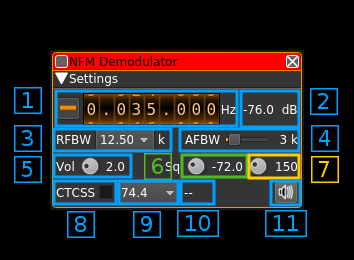
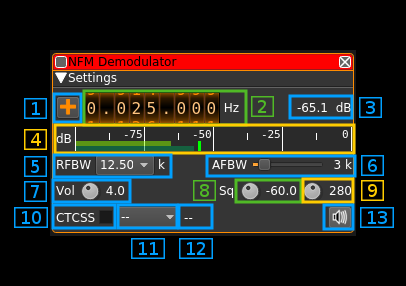
Documentation on AM, NFM and SSB demodulator plugins

diff --git a/plugins/channelrx/demodnfm/readme.md b/plugins/channelrx/demodnfm/readme.md
@@ -6,48 +6,58 @@ This plugin can be used to listen to a narrowband FM modulated signal. By "narro
 
 <h2>Interface</h2>
 
-![NFM Demodulator plugin GUI](/doc/img/NFMdemod_plugin.png)
+![NFM Demodulator plugin GUI](../../../doc/img/NFMdemod_plugin.png)
 
-<h3>1: Frequency shift from center frequency of reception</h3>
+<h3>1: Frequency shift from center frequency of reception direction</h3>
 
-Use the wheels to adjust the frequency shift in Hz from the center frequency of reception. Use the "+/-" button on the left side to toggle between positive and negative shift.
+The "+/-" button on the left side toggles between positive and negative shift.
 
-<h3>2: Channel power</h3>
+<h3>2: Frequency shift from center frequency of reception value</h3>
 
-Total power in dB relative to a +/- 1.0 amplitude signal received in the pass band.
+Use the wheels to adjust the frequency shift in Hz from the center frequency of reception. Left click on a digit sets the cursor position at this digit. Right click on a digit sets all digits on the right to zero. This effectively floors at the digit position.
 
-<h3>3: RF bandwidth</h3>
+<h3>3: Channel power</h3>
+
+Average total power in dB relative to a +/- 1.0 amplitude signal received in the pass band.
+
+<h3>4: Level meter in dB</h3>
+
+  - top bar (green): average value
+  - bottom bar (blue green): instantaneous peak value
+  - tip vertical bar (bright green): peak hold value
+
+<h3>5: RF bandwidth</h3>
 
 This is the bandwidth in kHz of the channel signal before demodulation. It can be set in steps as 5, 6.25, 8.33, 10, 12.5, 15, 20, 25 and 40 kHz.
 
-<h3>4: AF bandwidth</h3>
+<h3>6: AF bandwidth</h3>
 
 This is the bandwidth of the audio signal in kHz (i.e. after demodulation). It can be set in continuous kHz steps from 1 to 20 kHz.
 
-<h3>5: Volume</h3>
+<h3>7: Volume</h3>
 
 This is the volume of the audio signal from 0.0 (mute) to 10.0 (maximum). It can be varied continuously in 0.1 steps using the dial button.
 
-<h3>6: Squelch threshold</h3>
+<h3>8: Squelch threshold</h3>
 
-This is the squelch threshold in dB. The total power received in the signal bandwidth before demodulation is compared to this value and the squelch input is open above this value. It can be varied continuously in 0.1 dB steps from 0.0 to -100.0 dB using the dial button.
+This is the squelch threshold in dB. The average total power received in the signal bandwidth before demodulation is compared to this value and the squelch input is open above this value. It can be varied continuously in 0.1 dB steps from 0.0 to -100.0 dB using the dial button.
 
-<h3>7: Squelch gate</h3>
+<h3>9: Squelch gate</h3>
 
 This is the squelch gate in milliseconds. The squelch input must be open for this amount of time before the squelch actually opens. This prevents the opening of the squelch by parasitic transients. It can be varied continuously in 10ms steps from 10 to 500ms using the dial button.
 
-<h3>8: CTCSS on/off</h3>
+<h3>10: CTCSS on/off</h3>
 
 Use the checkbox to toggle CTCSS activation. When activated it will look for a tone squelch in the demodulated signal and display its frequency (see 10). 
 
-<h3>9: CTCSS tone</h3>
+<h3>11: CTCSS tone</h3>
 
 This is the tone squelch in Hz. It can be selected using the toolbox among the usual CTCSS values and `--` for none. When a value is given and the CTCSS is activated the squelch will open only for signals with this tone squelch.
 
-<h3>10: CTCSS tone value</h3>
+<h3>12: CTCSS tone value</h3>
 
 This is the value of the tone squelch received when the CTCSS is activated. It displays `--` if the CTCSS system is de-activated.
 
-<h3>11: Audio mute</h3>
+<h3>13: Audio mute</h3>
 
 Use this button to toggle audio mute for this channel. The button will light up in green if the squelch is open. This helps identifying which channels are active in a multi-channel configuration.

diff --git a/plugins/channelrx/demodssb/readme.md b/plugins/channelrx/demodssb/readme.md
@@ -1,0 +1,64 @@
+<h1>SSB/DSB demodulator plugin</h1>
+
+<h2>Introduction</h2>
+
+This plugin can be used to listen to a single sideband or double sidebands modulated signals. 
+
+<h2>Interface</h2>
+
+![SSB Demodulator plugin GUI](../../../doc/img/SSBDemod_plugin.png)
+
+<h3>1: Frequency shift from center frequency of reception direction</h3>
+
+The "+/-" button on the left side toggles between positive and negative shift.
+
+<h3>2: Frequency shift from center frequency of reception value</h3>
+
+Use the wheels to adjust the frequency shift in Hz from the center frequency of reception. Left click on a digit sets the cursor position at this digit. Right click on a digit sets all digits on the right to zero. This effectively floors at the digit position.
+
+<h3>3: Channel power</h3>
+
+Average total power in dB relative to a +/- 1.0 amplitude signal received in the pass band.
+
+<h3>4: Monaural/binaural toggle</h3>
+
+  - Monaural: the scalar signal is routed to both left and riht audio channels
+  - Binaural: the complex signal is fed with the real part on the left channel and the imaginary part to the rigth channel
+  
+<h3>5: Invert left and right channels</h3>
+
+Inverts left and right audio channels. Useful in binaural mode only.
+
+<h3>6: SSB/DSB demodulation</h3>
+
+Toggles between SSB (icon with one sideband signal) and DSB (incon with double sidebands signal)
+
+<h3>7: Level meter in dB</h3>
+
+  - top bar (green): average value
+  - bottom bar (blue green): instantaneous peak value
+  - tip vertical bar (bright green): peak hold value
+
+<h3>8: Span</h3>
+
+Signal span (i.e. sample rate) befor demodulation
+
+<h3>9: Bandwidth</h3>
+
+This is the upper limit in kHz of the signal filtered after demodulation. 
+
+<h3>10: Bandwidth</h3>
+
+SSB only: this is the lower limit in kHz of the signal filtered after demodulation. 
+
+<h3>11: Volume</h3>
+
+This is the volume of the audio signal from 0.0 (mute) to 10.0 (maximum). It can be varied continuously in 0.1 steps using the dial button.
+
+<h3>12: Audio mute</h3>
+
+Use this button to toggle audio mute for this channel. The button will light up in green if the squelch is open. This helps identifying which channels are active in a multi-channel configuration.
+
+<h3>13: Spectrum display</h3>
+
+This is the spectrum display of the demodulated signal (SSB) or translated signal (DSB)

diff --git a/plugins/channelrx/demodam/readme.md b/plugins/channelrx/demodam/readme.md
@@ -1,0 +1,43 @@
+<h1>AM demodulator plugin</h1>
+
+<h2>Introduction</h2>
+
+This plugin can be used to listen to a narrowband amplitude modulated signal. By "narrowband" it means that the bandwidth can vary from 1 to 40 kHz.
+
+<h2>Interface</h2>
+
+![AM Demodulator plugin GUI](../../../doc/img/AMDemod_plugin.png)
+
+<h3>1: Frequency shift from center frequency of reception direction</h3>
+
+The "+/-" button on the left side toggles between positive and negative shift.
+
+<h3>2: Frequency shift from center frequency of reception value</h3>
+
+Use the wheels to adjust the frequency shift in Hz from the center frequency of reception. Left click on a digit sets the cursor position at this digit. Right click on a digit sets all digits on the right to zero. This effectively floors at the digit position.
+
+<h3>3: Channel power</h3>
+
+Average total power in dB relative to a +/- 1.0 amplitude signal received in the pass band.
+
+<h3>4: Audio mute</h3>
+
+Use this button to toggle audio mute for this channel. The button will light up in green if the squelch is open. This helps identifying which channels are active in a multi-channel configuration.
+
+<h3>5: Level meter in dB</h3>
+
+  - top bar (green): average value
+  - bottom bar (blue green): instantaneous peak value
+  - tip vertical bar (bright green): peak hold value
+
+<h3>6: RF bandwidth</h3>
+
+This is the bandwidth in kHz of the channel signal before demodulation. It can be set continuously in 1 kHz steps from 1 to 40 kHz.
+
+<h3>7: Volume</h3>
+
+This is the volume of the audio signal from 0.0 (mute) to 10.0 (maximum). It can be varied continuously in 0.1 steps using the dial button.
+
+<h3>8: Squelch threshold</h3>
+
+This is the squelch threshold in dB. The average total power received in the signal bandwidth before demodulation is compared to this value and the squelch input is open above this value. It can be varied continuously in 0.1 dB steps from 0.0 to -100.0 dB using the dial button.

diff --git a/Readme.md b/Readme.md
@@ -95,7 +95,7 @@ If you use your own location for librtlsdr install directory you need to specify
 
 Linux only.
 
-SDRplay devices are supported through the [libmirisdr-4](https://github.com/f4exb/libmirisdr-4) library found in this very same Github space. There is no package distribution for this library and you will have to clone it, build and install it in your system. However Windows and Debian packages of SDRangel contain a pre-compiled version of this library.
+SDRplay devices are supported through the [libmirisdr-4](https://github.com/f4exb/libmirisdr-4) library found in this very same Github space. There is no package distribution for this library and you will have to clone it, build and install it in your system. However Debian packages of SDRangel contain a pre-compiled version of this library.
 
 If you use your own location for libmirisdr-4 install directory you need to specify library and include locations with cmake. For example with `/opt/install/libmirisdr` the following defines must be added on `cmake` command line:
 
@@ -196,7 +196,7 @@ Then in a terminal do:
   - `sudo dpkg -i sdrangel_vx.y.z-1_amd64.deb` where x.y.z is the version number
   - `sudo apt-get -f install` this will install missing dependencies
     
-The software is installed in `\opt\sdrangel` you can start it from the command line with:
+The software is installed in `/opt/sdrangel` you can start it from the command line with:
   - `/opt/sdrangel/bin/sdrangel`
 
 <h1>Software build</h1>
